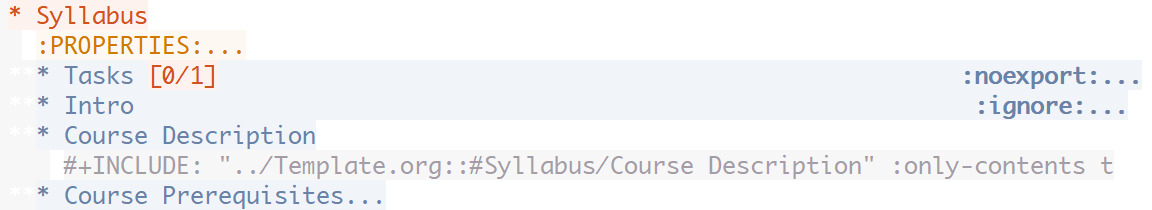
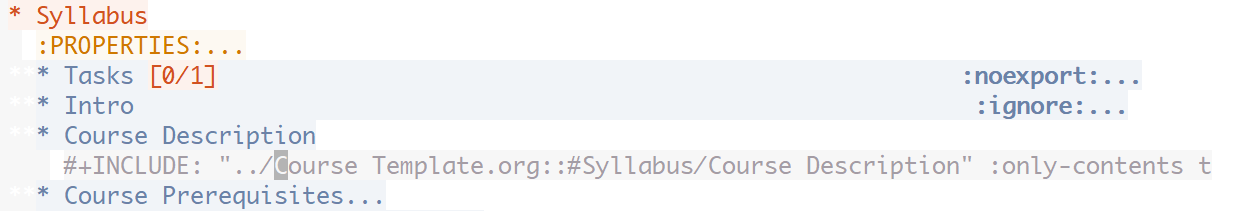
Update

diff --git a/Lectures/01 Introduction.html b/Lectures/01 Introduction.html
@@ -185,7 +185,7 @@ semester Org file (in the case of our example, <code class="docutils literal"><s
 <img alt="../Assets/Images/Org-Teaching/Quickstart_Semester-Rename-Semester-Before.png" src="../Assets/Images/Org-Teaching/Quickstart_Semester-Rename-Semester-Before.png" />
 <p>You can use the search-and-replace feature in Emacs by pressing <code class="docutils literal"><span class="pre">M-%</span></code>
 (<code class="docutils literal"><span class="pre">Alt+Shift+5</span></code>) or via <code class="docutils literal"><span class="pre">Edit</span></code> -&gt; <code class="docutils literal"><span class="pre">Replace</span></code> -&gt; <code class="docutils literal"><span class="pre">Replace</span> <span class="pre">String</span></code> menu),
-inputting <code class="docutils literal"><span class="pre">/Semester.org&lt;Enter&gt;</span></code> followed by <code class="docutils literal"><span class="pre">/2020</span> <span class="pre">Spring.org&lt;Enter&gt;</span></code>, and
+inputting <code class="docutils literal"><span class="pre">/Semester</span> <span class="pre">Template.org&lt;Enter&gt;</span></code> followed by <code class="docutils literal"><span class="pre">/2020</span> <span class="pre">Spring.org&lt;Enter&gt;</span></code>, and
 pressing <code class="docutils literal"><span class="pre">!</span></code> (replace all). Emacs will let you know how many replaces has been
 made.</p>
 <p>The replace query will look like the following:</p>
@@ -195,7 +195,7 @@ made.</p>
 <p>As shown below, all occurrences of <code class="docutils literal"><span class="pre">Semester</span> <span class="pre">Template.org</span></code> are replaced by <code class="docutils literal"><span class="pre">2020</span> <span class="pre">Spring.org</span></code>:</p>
 <img alt="../Assets/Images/Org-Teaching/Quickstart_Semester-Rename-Semester-After.png" src="../Assets/Images/Org-Teaching/Quickstart_Semester-Rename-Semester-After.png" />
 <p>Repeat the same process for the template Org file. That is, replace
-<code class="docutils literal"><span class="pre">Template.org</span></code> with the name of your course Org file.</p>
+<code class="docutils literal"><span class="pre">Course</span> <span class="pre">Template.org</span></code> with the name of your course Org file.</p>
 <img alt="../Assets/Images/Org-Teaching/Quickstart_Semester-Rename-Course-Before.png" src="../Assets/Images/Org-Teaching/Quickstart_Semester-Rename-Course-Before.png" />
 <div class="highlight-default"><div class="highlight"><pre><span></span><span class="n">Query</span> <span class="n">replace</span> <span class="n">Course</span> <span class="n">Template</span><span class="o">.</span><span class="n">org</span> <span class="k">with</span><span class="p">:</span> <span class="n">Example</span> <span class="n">Course</span><span class="o">.</span><span class="n">org</span>
 </pre></div>
